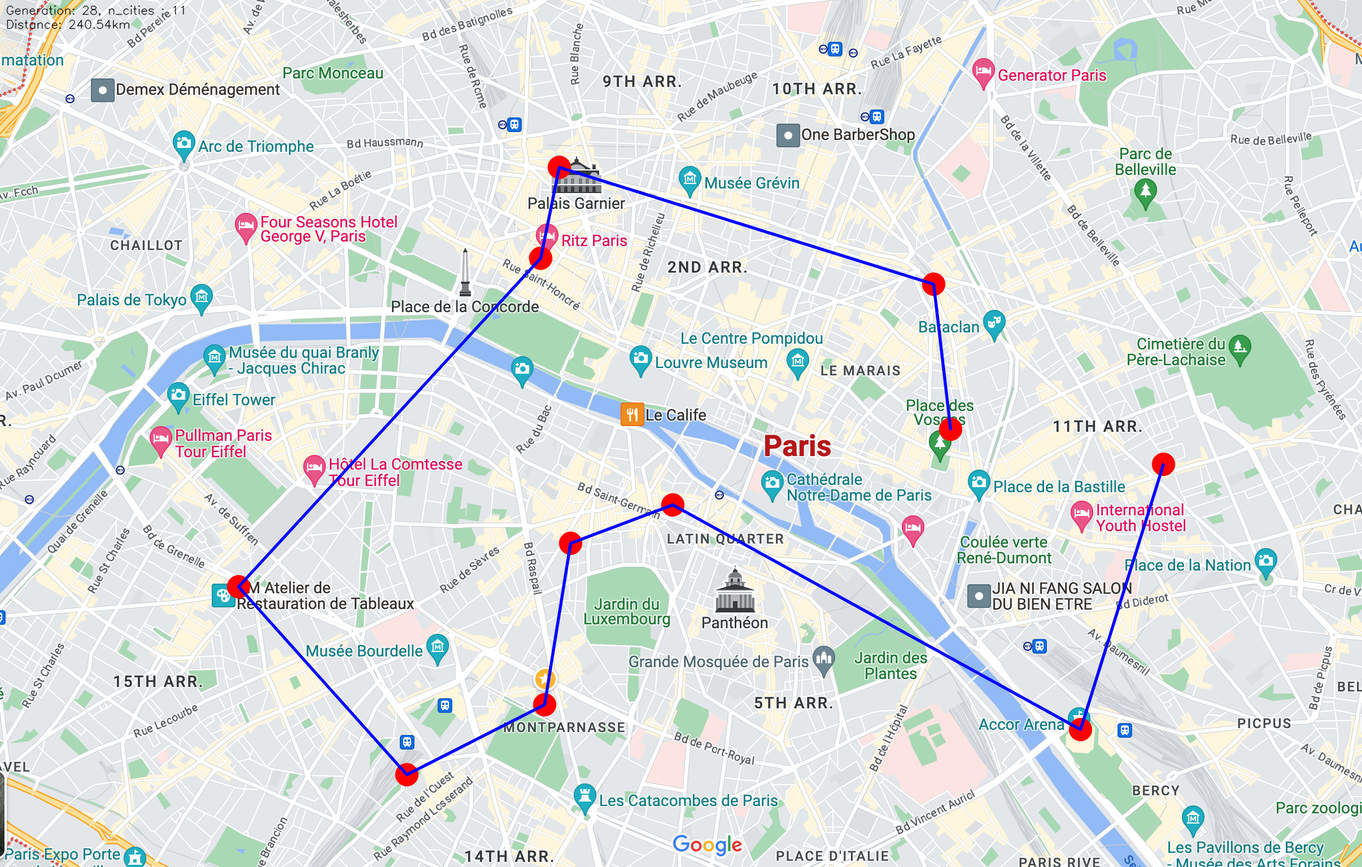
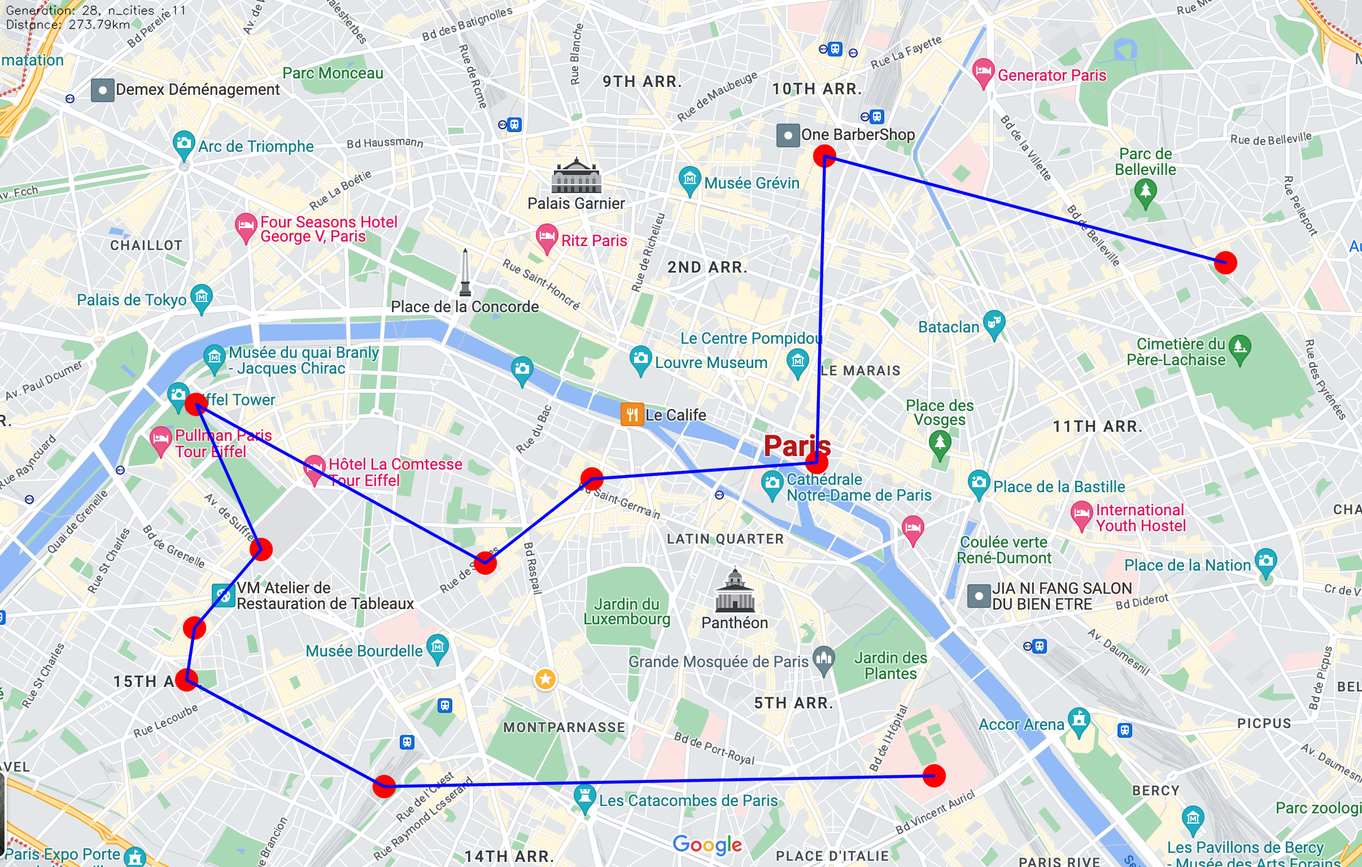
more fittest and result something

diff --git a/main_cities_coordinates.py b/main_cities_coordinates.py
@@ -218,7 +218,8 @@ def getsolutionfromfittests(cities_coordinates, tourmanager):
     # n_generations = 100 
     n_generations = int(2 ** ((n_cities + 3.5) / 3.5)) + n_cities
 
-    random.seed(200)
+    # random.seed(200) # not bed
+    random.seed(300)
 
     # Load the map
     map_original = cv2.imread("map_Paris.png")
